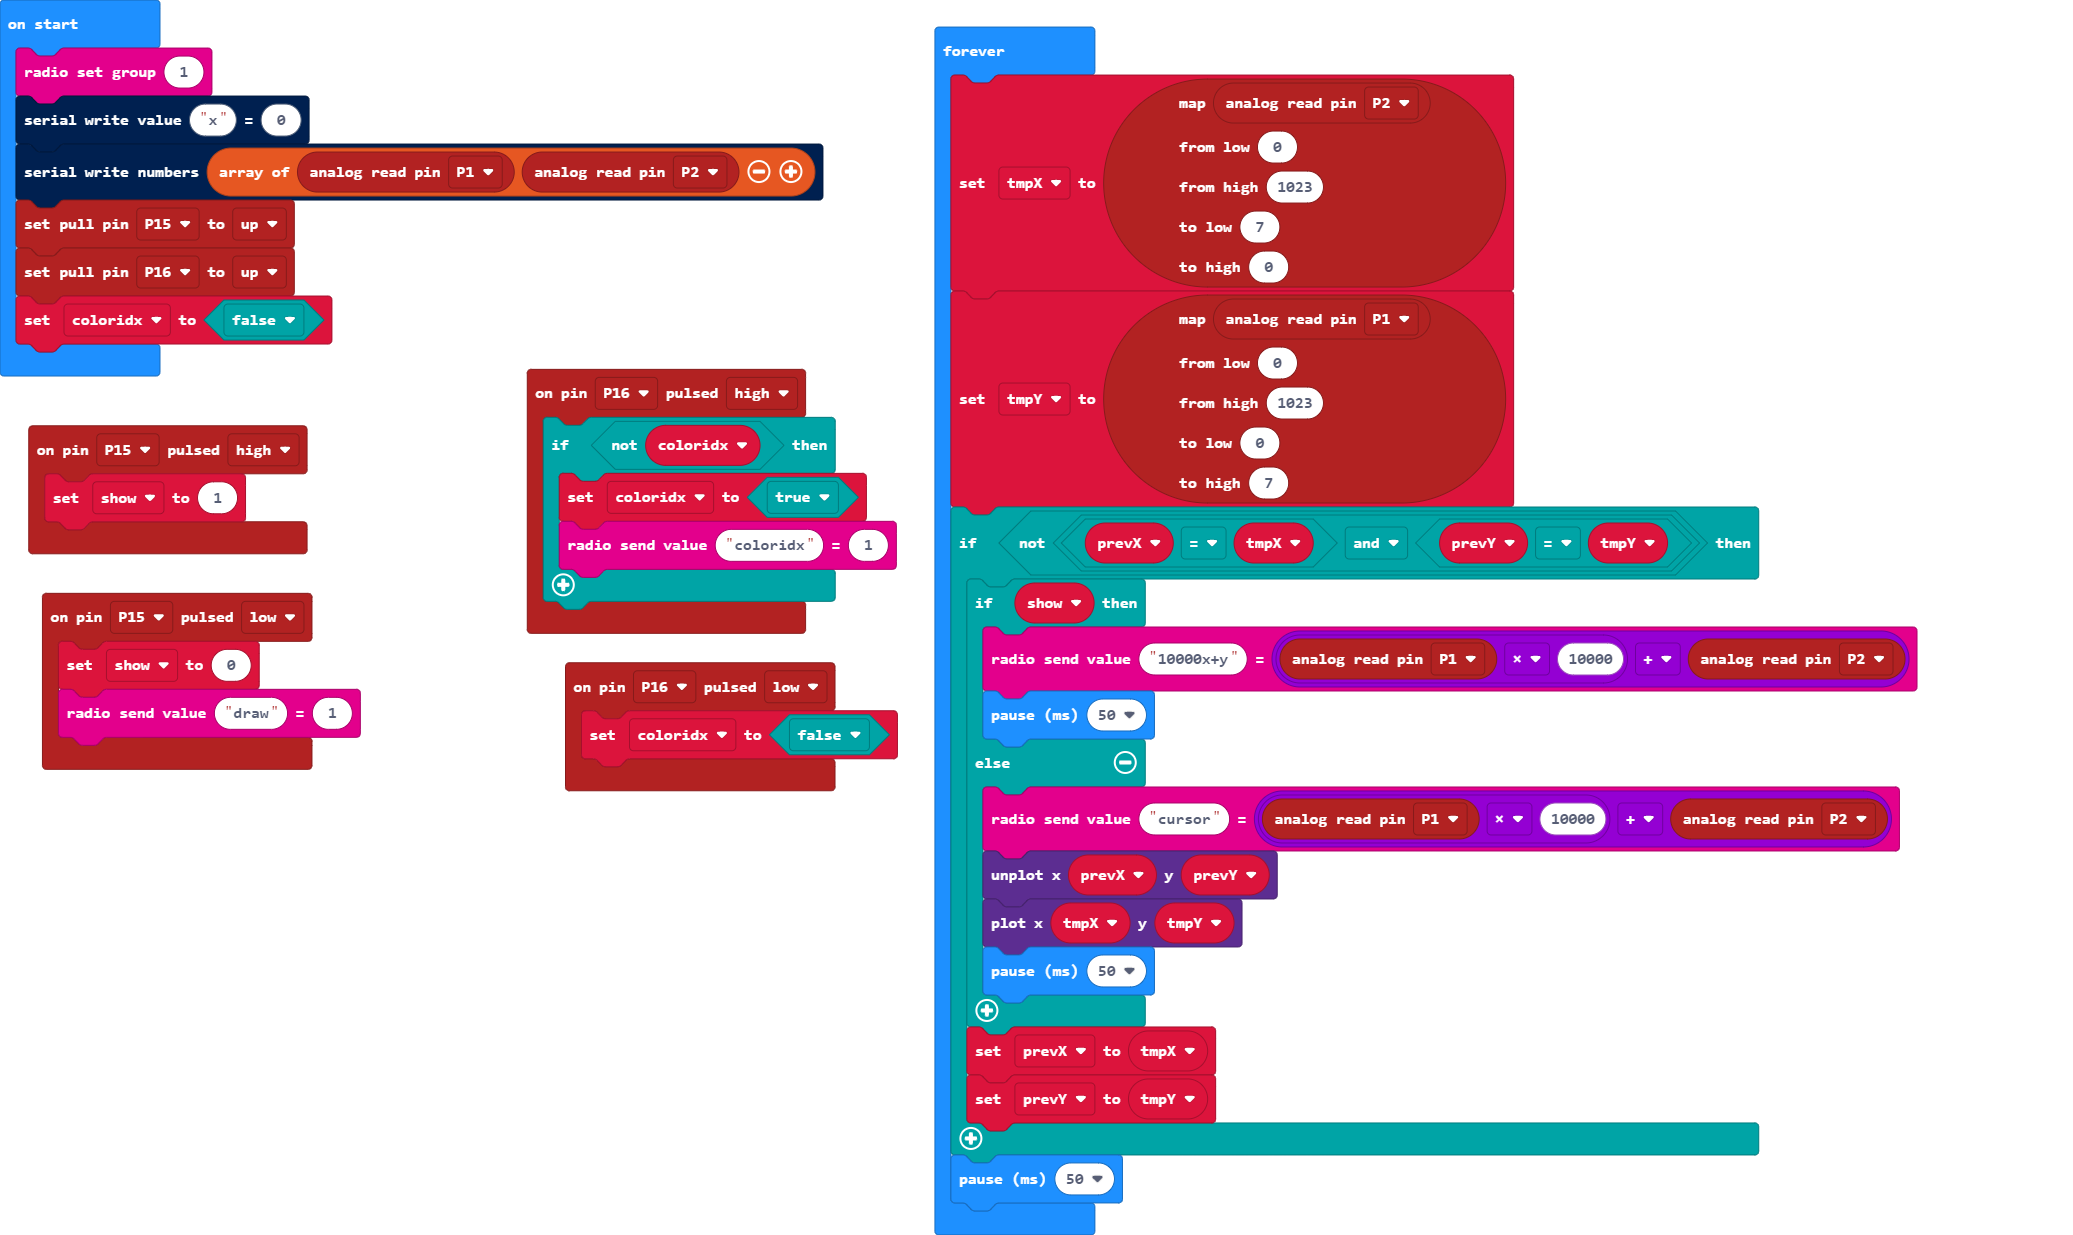
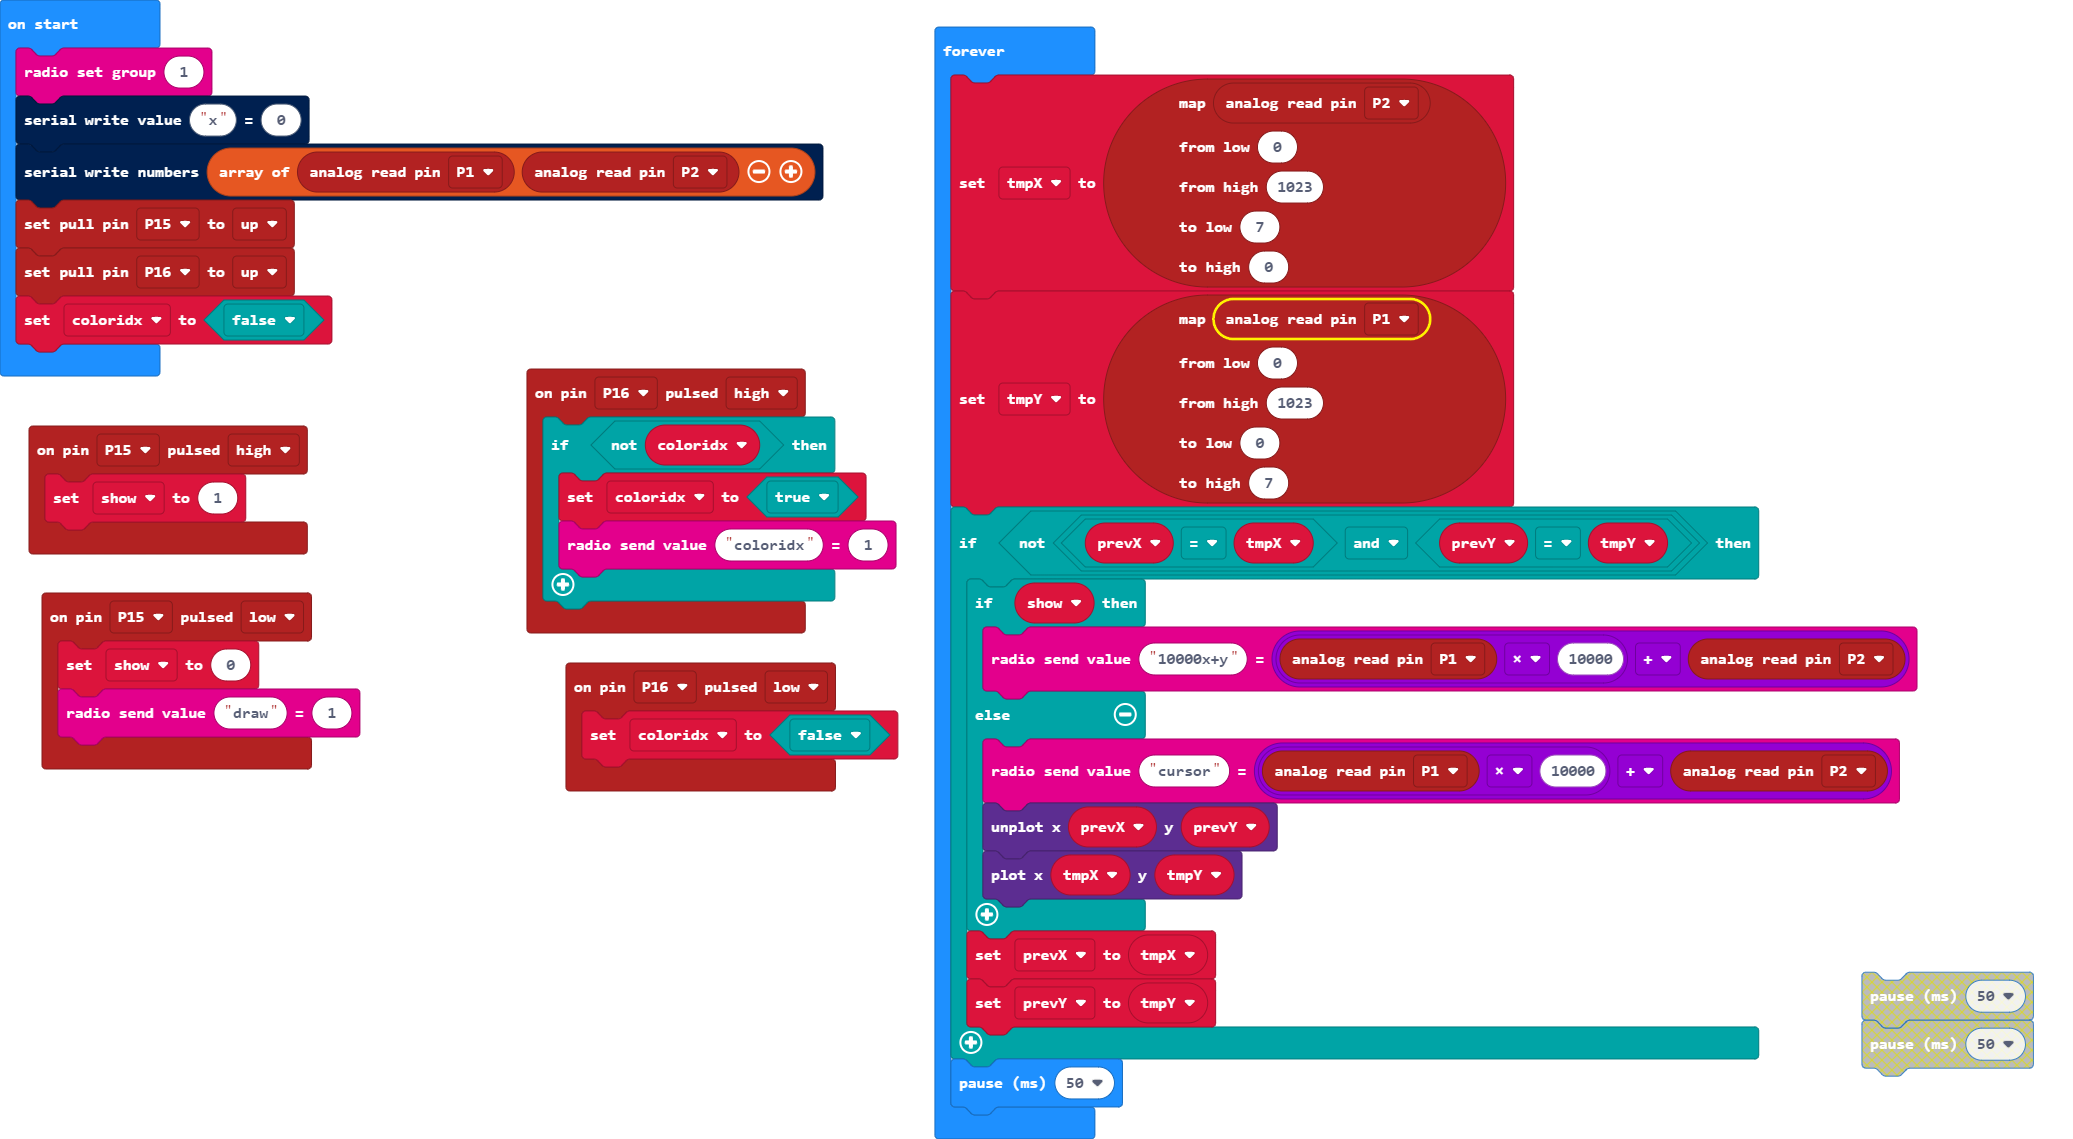
Update main.blocks, main.ts

diff --git a/main.ts b/main.ts
@@ -47,12 +47,10 @@ basic.forever(function () {
     if (!(prevX == tmpX && prevY == tmpY)) {
         if (show) {
             radio.sendValue("10000x+y", pins.analogReadPin(AnalogPin.P1) * 10000 + pins.analogReadPin(AnalogPin.P2))
-            basic.pause(50)
         } else {
             radio.sendValue("cursor", pins.analogReadPin(AnalogPin.P1) * 10000 + pins.analogReadPin(AnalogPin.P2))
             led.unplot(prevX, prevY)
             led.plot(tmpX, tmpY)
-            basic.pause(50)
         }
         prevX = tmpX
         prevY = tmpY
